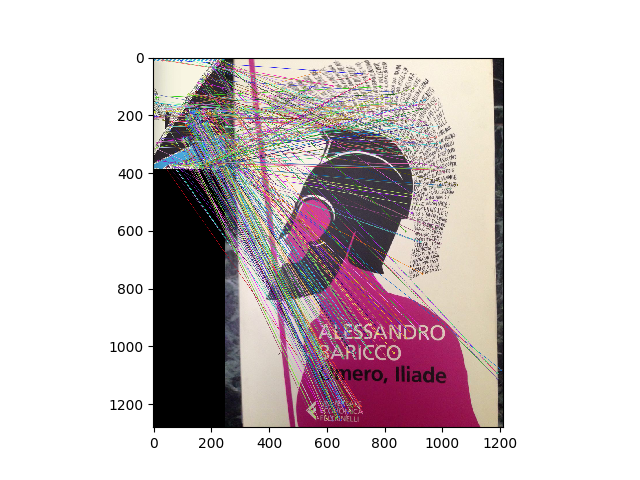
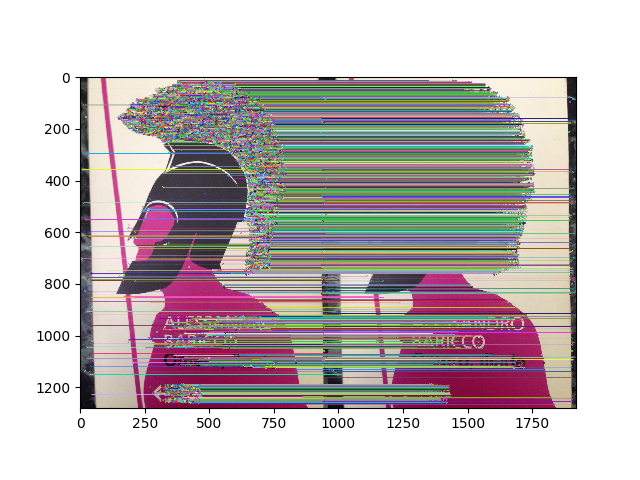
added local match, missing threshold

diff --git a/templates/result.html b/templates/result.html
@@ -24,8 +24,7 @@
         </div>
         <div class="row">
             <img id="dataset-pic" src="{{dataset_image_link}}" alt="Not image found" height="400">
-
-            <form action="http://localhost:5000/matches?query={{dataset_image_link}}&image={{picture}}" method="POST" enctype="multipart/form-data">
+            <form action="http://localhost:5000/matches?query={{dataset_image_link}}&local={{local}}&image={{picture}}" method="POST" enctype="multipart/form-data">
                 <input type="radio" name="tecnique" value="sift" checked> Show SIFT matches <br>
                 <!-- <input type="radio" name="tecnique" value="surf"> Show SURF matches <br> <br> -->
 

diff --git a/templates/insert.html b/templates/insert.html
@@ -10,7 +10,7 @@
     <div class="col-md-auto">
             <img id="inputpic" src="/static/pictures/{{picture}}" alt="error" height="500">
     </div>
-    <form action="http://localhost:5000/insert" method = "POST" enctype="multipart/form-data">
+    <form action="http://localhost:5000/insert?picture={{picture}}" method = "POST" enctype="multipart/form-data">
         <div class="form-group">
             <label for="title">Title</label>
             <input type="text"  placeholder="Enter Title" class="form-control" name="title" id="title">

diff --git a/app.py b/app.py
@@ -26,7 +26,8 @@ def show_result():
         filename = secure_filename(f.filename)
         f.save(os.path.join(app.config['UPLOAD_FOLDER'], filename))
         book_details = find_book(filename)
-        if book_details[1][1] < 0.5 or book_details[1][2] > 0.5:
+        # temporary threshold for match
+        if book_details[1][0][0] < 0.5 or book_details[1][0][1] < 0.5:
             flash('The book is not available in our database, \
                    would you like to enrich our application adding \
                    this book ?')
@@ -35,11 +36,14 @@ def show_result():
             'result.html',
             picture=filename,
             blocks=book_details[0],
-            result=('Title: ' + book_details[1][1].encode('utf-8') +
-                    ', Author: ' + book_details[1][2].encode('utf-8')),
+            result=('Title: ' +
+                    book_details[1][1].get('title').encode('utf-8') +
+                    ', Author: ' +
+                    book_details[1][1].get('author').encode('utf-8')),
             similarities=book_details[1][0],
-            dataset_image_link=book_details[1][3]
-        )
+            dataset_image_link=book_details[1][1].get('image'),
+            local=book_details[1][1].get('local')
+            )
 
 
 @app.route('/matches', methods=['POST', 'GET'])
@@ -47,8 +51,13 @@ def show_matches():
     # According to which tecnique is selected, good percentage
     # and matches image are shown
     if request.form['tecnique'] == 'sift':
-        # Convert links into numpy array (right format for opencv)
-        query = io.imread('https:' + request.args.get('query').encode('utf-8'))
+        # if the image is stored locally
+        if request.args.get('local'):
+            query = io.imread(request.args.get('query').encode('utf-8'))
+        else:
+            # Convert links into numpy array (right format for opencv)
+            query = io.imread('https:' + request.args.get('query')
+                              .encode('utf-8'))
         image = io.imread(os.path.join(app.config['UPLOAD_FOLDER'],
                                        request.args.get('image')
                                        .encode('utf-8')))
@@ -67,24 +76,37 @@ def add_new_book():
         if not title:
             flash('You must insert a Title')
             return render_template('insert.html')
+        else:
+            title = title.lower()
         author = request.form['author']
         if not author:
             flash('You must insert a Author')
             return render_template('insert.html')
+        else:
+            author = author.lower()
         editor = request.form['editor']
-        rating = int(request.form['rating'])
-        if rating < 1 or rating > 5:
-            flash('Rating must be number between 1 and 5')
-            return render_template('insert.html')
+        if editor:
+            editor = editor.lower()
+        rating = request.form['rating']
+        if rating:
+            rating = int(rating)
+            if rating < 1 or rating > 5:
+                flash('Rating must be number between 1 and 5')
+                return render_template('insert.html')
         price = request.form['price']
         review = request.form['review']
         if len(review) > 1500:
             flash('You exceeded the limit of 1500 characters in the review')
             return render_template('insert.html')
-        image = ''
-        # add_book(title, author, image, rating,
-        #          price, [review], editor)
-        flash('New book succesfully inserted')
+        picture = request.args.get('picture')
+        image = os.path.join(app.config['UPLOAD_FOLDER'], picture)
+        key = add_book(title, author, image, rating,
+                       price, [review], editor, local=True)
+        if key:
+            flash('New book succesfully inserted')
+            print key
+            return render_template('home.html')
+        flash('Error inserting book')
         return render_template('home.html')
 
 

diff --git a/src/datastore.py b/src/datastore.py
@@ -20,8 +20,8 @@ def add_csv():
                      row[5], reviews, row[2])
 
 
-def add_book(title, author, image, rating=None,
-             price=None, reviews=None, editor=None, descriptions=None):
+def add_book(title, author, image, rating=None, price=None,
+             reviews=None, editor=None, local=False):
 
     key = client.key('Book')
     book = datastore.Entity(
@@ -34,7 +34,7 @@ def add_book(title, author, image, rating=None,
         'editor': editor,
         'rating': rating,
         'price': price,
-        'descriptions': descriptions
+        'local': local,
     })
     client.put(book)
 
@@ -101,14 +101,12 @@ def search_book(generic_title, cursor=None, similarity=[0, 0], best_book=None):
 
             if is_better(best_ratios, similarity):
                 similarity = best_ratios
-                # key = book.key
                 best_book = book
 
     if next_cursor:
         return search_book(generic_title, next_cursor, similarity, best_book)
 
-    return (similarity, best_book.get('title'),
-            best_book.get('author'), best_book.get('image'))
+    return (similarity, best_book)
 
 
 # check if the ratio1 is better than ratio2
